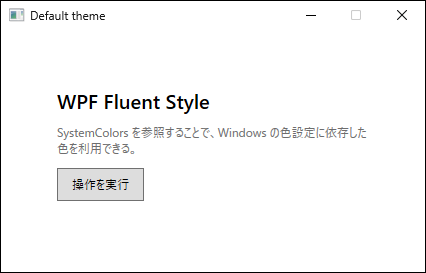
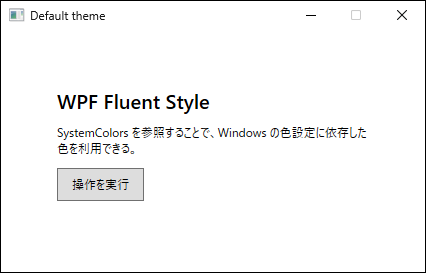
CodeRabbit 再レビューの指摘に対応
- 拡張メンバー記事: DeleteIfExists の Exists 先行チェックをやめ、
  DirectoryNotFoundException を握る形にする。Exists と Delete の間に対象が
  消えると例外になるため。Directory.Delete / DirectoryInfo.Delete(true) の
  どちらも DirectoryNotFoundException を投げることを実機で確認済み
- 拡張メンバー記事: 呼び出し例に using System; / using System.IO; を追加する
- DatePicker: 図の再現に使った 2 つの DatePicker（xml:lang=en-US 付き）の
  XAML を図の直前に載せ、掲載コードから図を再現できるようにする
- Fluent デザイン: Foreground の SystemColors 参照が if (fluent) の外にあり、
  既定テーマ側のキャプチャにも適用されていたため、解決策側だけに閉じる。
  既定テーマのキャプチャを撮り直した
- generate_sitemap.py: ![alt](<path> title) の山括弧を外してから
  サイト相対パス判定に回す
- generate_sitemap.py: image:loc を XML エスケープする（& を含む URL 対策）
- Capture.cs: Loaded のタイムアウトに関する説明から原因の断定を外す

対応しなかった指摘:

- 「Label の visual は AccessText への置き換えであり追加ではない」
  → 実測では ContentPresenter → AccessText → TextBlock となり、TextBlock は
     残ったまま AccessText が挟まる（合計 5 個）。現在の記述が実機と一致する
- 「DatePicker.SelectedDateFormat の既定は Long」
  → 実機では Short（Text は 4/15/2026）。記事の記述と図が正しい
- 「説明文に GrayTextBrush を使わない」
  → キャプチャは記事の XAML と同じ内容であることが要件であり、
     記事側が GrayTextBrushKey を使っているためそちらに合わせる

Changed region(s): [[0.1221, 0.4689, 0.8545, 0.5568]]

diff --git a/.github/scripts/generate_sitemap.py b/.github/scripts/generate_sitemap.py
@@ -19,6 +19,7 @@ import glob
 import datetime
 import subprocess
 from typing import Optional
+from xml.sax.saxutils import escape as xml_escape
 
 REPO_ROOT = os.path.join(os.path.dirname(__file__), "..", "..")
 TODAY = datetime.date.today().isoformat()
@@ -107,6 +108,15 @@ def get_git_lastmod(rel_path: str) -> str:
     return TODAY
 
 
+def image_element(url: str) -> str:
+    """Build one <image:image> entry, XML-escaping the URL.
+
+    An image URL can legitimately contain '&' (query strings, for example),
+    which must not be written into the sitemap verbatim.
+    """
+    return f"    <image:image><image:loc>{xml_escape(url)}</image:loc></image:image>"
+
+
 def extract_images_from_file(abs_path: str) -> list:
     """Return a list of absolute image URLs found in an HTML or Markdown file.
 
@@ -131,9 +141,14 @@ def extract_images_from_file(abs_path: str) -> list:
 
     images = []
     if abs_path.endswith(".md"):
-        # Markdown image syntax: ![alt](path)
+        # Markdown image syntax: ![alt](path), including the ![alt](<path> "title") form
         for src in re.findall(r'!\[[^\]]*\]\(([^)]+)\)', content):
-            src = src.strip().split()[0]  # strip optional title (e.g. "url title")
+            src = src.strip()
+            if src.startswith("<"):
+                # Angle-bracketed destination: everything up to the closing '>'
+                src = src[1:].split(">", 1)[0]
+            else:
+                src = src.split()[0]  # strip optional title (e.g. "url title")
             if is_site_relative(src):
                 images.append(BASE_URL + src)
     # HTML <img src="..."> (also handles single quotes)
@@ -227,7 +242,7 @@ def build_article_url_entry(slug: str, has_ja: bool) -> str:
         lines.append(f'    <xhtml:link rel="alternate" hreflang="ja" href="{ja_url}" />')
     lines.append(f'    <xhtml:link rel="alternate" hreflang="x-default" href="{en_url}" />')
     for img_url in en_images:
-        lines.append(f"    <image:image><image:loc>{img_url}</image:loc></image:image>")
+        lines.append(image_element(img_url))
     lines.append(f"    <lastmod>{en_lastmod}</lastmod>")
     lines.append(f"    <changefreq>{changefreq}</changefreq>")
     lines.append(f"    <priority>{priority}</priority>")
@@ -245,7 +260,7 @@ def build_article_url_entry(slug: str, has_ja: bool) -> str:
         lines.append(f'    <xhtml:link rel="alternate" hreflang="ja" href="{ja_url}" />')
         lines.append(f'    <xhtml:link rel="alternate" hreflang="x-default" href="{en_url}" />')
         for img_url in ja_images:
-            lines.append(f"    <image:image><image:loc>{img_url}</image:loc></image:image>")
+            lines.append(image_element(img_url))
         lines.append(f"    <lastmod>{ja_lastmod}</lastmod>")
         lines.append(f"    <changefreq>{ja_changefreq}</changefreq>")
         lines.append(f"    <priority>{ja_priority}</priority>")
@@ -280,7 +295,7 @@ def build_url_entry(en_path: str, ja_path: Optional[str]) -> str:
         f'    <xhtml:link rel="alternate" hreflang="x-default" href="{en_url}" />'
     )
     for img_url in en_images:
-        lines.append(f"    <image:image><image:loc>{img_url}</image:loc></image:image>")
+        lines.append(image_element(img_url))
     lines.append(f"    <lastmod>{en_lastmod}</lastmod>")
     lines.append(f"    <changefreq>{changefreq}</changefreq>")
     lines.append(f"    <priority>{priority}</priority>")
@@ -305,7 +320,7 @@ def build_url_entry(en_path: str, ja_path: Optional[str]) -> str:
             f'    <xhtml:link rel="alternate" hreflang="x-default" href="{en_url}" />'
         )
         for img_url in ja_images:
-            lines.append(f"    <image:image><image:loc>{img_url}</image:loc></image:image>")
+            lines.append(image_element(img_url))
         lines.append(f"    <lastmod>{ja_lastmod}</lastmod>")
         lines.append(f"    <changefreq>{ja_changefreq}</changefreq>")
         lines.append(f"    <priority>{ja_priority}</priority>")

diff --git a/tools/screenshot-capture/Scenes/FluentSystemColorsScene.cs b/tools/screenshot-capture/Scenes/FluentSystemColorsScene.cs
@@ -51,20 +51,29 @@ internal sealed class FluentSystemColorsScene : IScene
     private static UIElement BuildCard(bool fluent)
     {
         var content = new StackPanel();
-        content.Children.Add(new TextBlock
+
+        var heading = new TextBlock
         {
             Text = "WPF Fluent Style",
             FontSize = 20,
             FontWeight = FontWeights.SemiBold,
-            Foreground = SystemColors.ControlTextBrush,
-        });
-        content.Children.Add(new TextBlock
+        };
+        var body = new TextBlock
         {
             Text = "SystemColors を参照することで、Windows の色設定に依存した色を利用できる。",
             TextWrapping = TextWrapping.Wrap,
-            Foreground = SystemColors.GrayTextBrush,
             Margin = new Thickness(0, 10, 0, 0),
-        });
+        };
+
+        if (fluent)
+        {
+            // 記事の XAML と同じく、SystemColors 由来のブラシを参照するのは解決策側だけ。
+            heading.Foreground = SystemColors.ControlTextBrush;
+            body.Foreground = SystemColors.GrayTextBrush;
+        }
+
+        content.Children.Add(heading);
+        content.Children.Add(body);
         content.Children.Add(new Button
         {
             Content = "操作を実行",

diff --git a/tools/screenshot-capture/Capture.cs b/tools/screenshot-capture/Capture.cs
@@ -90,8 +90,7 @@ internal static class Capture
     /// </summary>
     /// <exception cref="TimeoutException">
     /// <see cref="FrameworkElement.Loaded"/> が <see cref="LoadedTimeout"/> 以内に発火しない場合。
-    /// デスクトップセッションが切断されているなど描画が行われない環境では発火しないため、
-    /// 待ち続けてバッチ全体が止まらないように打ち切る。
+    /// 待ち続けてバッチ全体が止まらないように上限を設けている。
     /// </exception>
     public static async Task ShowAndSettleAsync(Window window, int extraDelayMs = 400)
     {

diff --git a/_articles_ja/csharp14-extension-members-static-class-limitation.md b/_articles_ja/csharp14-extension-members-static-class-limitation.md
@@ -46,9 +46,13 @@ public static class DirectoryExtensions
     {
         public void DeleteIfExists(string path)
         {
-            if (Directory.Exists(path))
+            try
             {
                 Directory.Delete(path, true);
+            }
+            catch (DirectoryNotFoundException)
+            {
+                // 既に存在しない場合は何もしない。
             }
         }
     }
@@ -70,9 +74,13 @@ public static class DirectoryExtensions
     {
         public static void DeleteIfExists(string path)
         {
-            if (Directory.Exists(path))
+            try
             {
                 Directory.Delete(path, true);
+            }
+            catch (DirectoryNotFoundException)
+            {
+                // 既に存在しない場合は何もしない。
             }
         }
     }
@@ -173,9 +181,13 @@ public static class DirectoryExtensions
         /// </summary>
         public static void DeleteIfExists(string path)
         {
-            if (Directory.Exists(path))
+            try
             {
                 Directory.Delete(path, true);
+            }
+            catch (DirectoryNotFoundException)
+            {
+                // 既に存在しない場合は何もしない。
             }
         }
 
@@ -188,6 +200,8 @@ public static class DirectoryExtensions
 呼び出し側では以下のように使用する。
 
 ```csharp
+using System;
+using System.IO;
 using MyLib; // ← これを忘れると CS0117 になる
 
 Directory.DeleteIfExists(@"C:\Temp\TargetDir");
@@ -215,9 +229,13 @@ public static class DirectoryInfoExtensions
         /// </summary>
         public void DeleteIfExists()
         {
-            if (directoryInfo.Exists)
+            try
             {
                 directoryInfo.Delete(true);
+            }
+            catch (DirectoryNotFoundException)
+            {
+                // 既に存在しない場合は何もしない。
             }
         }
     }
@@ -247,9 +265,13 @@ public static class DirectoryHelper
     /// </summary>
     public static void DeleteIfExists(string path)
     {
-        if (Directory.Exists(path))
+        try
         {
             Directory.Delete(path, true);
+        }
+        catch (DirectoryNotFoundException)
+        {
+            // 既に存在しない場合は何もしない。
         }
     }
 }

diff --git a/_articles_en/csharp14-extension-members-static-class-limitation.md b/_articles_en/csharp14-extension-members-static-class-limitation.md
@@ -46,9 +46,13 @@ public static class DirectoryExtensions
     {
         public void DeleteIfExists(string path)
         {
-            if (Directory.Exists(path))
+            try
             {
                 Directory.Delete(path, true);
+            }
+            catch (DirectoryNotFoundException)
+            {
+                // Nothing to do when it is already gone.
             }
         }
     }
@@ -70,9 +74,13 @@ public static class DirectoryExtensions
     {
         public static void DeleteIfExists(string path)
         {
-            if (Directory.Exists(path))
+            try
             {
                 Directory.Delete(path, true);
+            }
+            catch (DirectoryNotFoundException)
+            {
+                // Nothing to do when it is already gone.
             }
         }
     }
@@ -172,9 +180,13 @@ public static class DirectoryExtensions
         /// </summary>
         public static void DeleteIfExists(string path)
         {
-            if (Directory.Exists(path))
+            try
             {
                 Directory.Delete(path, true);
+            }
+            catch (DirectoryNotFoundException)
+            {
+                // Nothing to do when it is already gone.
             }
         }
 
@@ -187,6 +199,8 @@ public static class DirectoryExtensions
 The call site looks as follows.
 
 ```csharp
+using System;
+using System.IO;
 using MyLib; // omit this and you get CS0117
 
 Directory.DeleteIfExists(@"C:\Temp\TargetDir");
@@ -214,9 +228,13 @@ public static class DirectoryInfoExtensions
         /// </summary>
         public void DeleteIfExists()
         {
-            if (directoryInfo.Exists)
+            try
             {
                 directoryInfo.Delete(true);
+            }
+            catch (DirectoryNotFoundException)
+            {
+                // Nothing to do when it is already gone.
             }
         }
     }
@@ -246,9 +264,13 @@ public static class DirectoryHelper
     /// </summary>
     public static void DeleteIfExists(string path)
     {
-        if (Directory.Exists(path))
+        try
         {
             Directory.Delete(path, true);
+        }
+        catch (DirectoryNotFoundException)
+        {
+            // Nothing to do when it is already gone.
         }
     }
 }

diff --git a/_articles_en/wpf-datepicker-custom-format.md b/_articles_en/wpf-datepicker-custom-format.md
@@ -42,6 +42,26 @@ For full control, the control template's `DatePickerTextBox` must be targeted th
 
 The separators are escaped as `\/` so they render literally. Left unescaped, `/` is a date-separator placeholder that the binding's culture can replace with another character, which would break the fixed layout the article aims for. The same effect can be achieved by quoting the separators as `'/'` (for example `yyyy'/'MM'/'dd`), the form used later in this article.  
 
+Placing the two side by side gives the following.  
+The default display follows the target element's `Language` property (`xml:lang` in XAML), so both carry `en-US` to keep the comparison independent of the machine locale.  
+
+```xml
+<!-- Default display -->
+<DatePicker xml:lang="en-US" SelectedDate="2026-04-15" Width="190" />
+
+<!-- With the style above applied -->
+<DatePicker xml:lang="en-US" SelectedDate="2026-04-15" Width="190">
+  <DatePicker.Resources>
+    <Style TargetType="DatePickerTextBox">
+      <Setter Property="Text"
+              Value="{Binding SelectedDate,
+                              RelativeSource={RelativeSource AncestorType=DatePicker},
+                              StringFormat='yyyy\/MM\/dd'}" />
+    </Style>
+  </DatePicker.Resources>
+</DatePicker>
+```
+
 <figure class="article-figure">
   <img src="/images/articles/wpf-datepicker-custom-format/datepicker-default-vs-custom-format.png" alt="Two DatePicker controls holding the same date. The default one displays 4/15/2026 while the one with StringFormat displays 2026/04/15." width="486" height="146" loading="lazy">
   <figcaption>Two <code>DatePicker</code> controls given the same <code>SelectedDate</code>. Both carry <code>xml:lang="en-US"</code> so that the difference in format is visible. The upper one uses the default display, which follows that setting and renders <code>4/15/2026</code>. The lower one applies the style from this section and stays fixed at <code>2026/04/15</code> regardless of culture.</figcaption>
